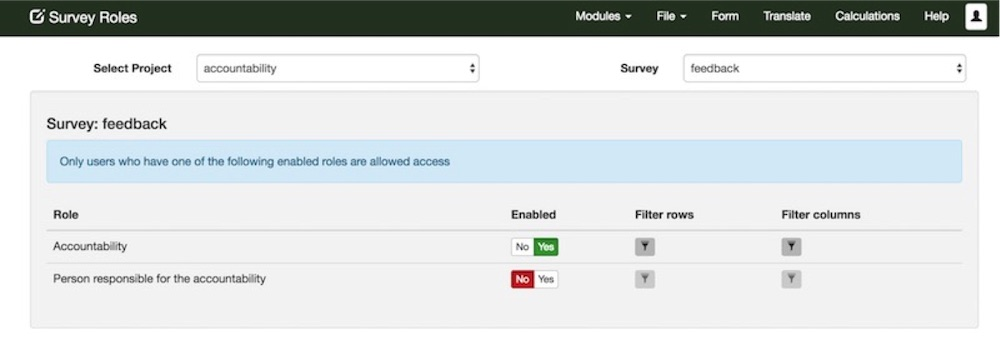
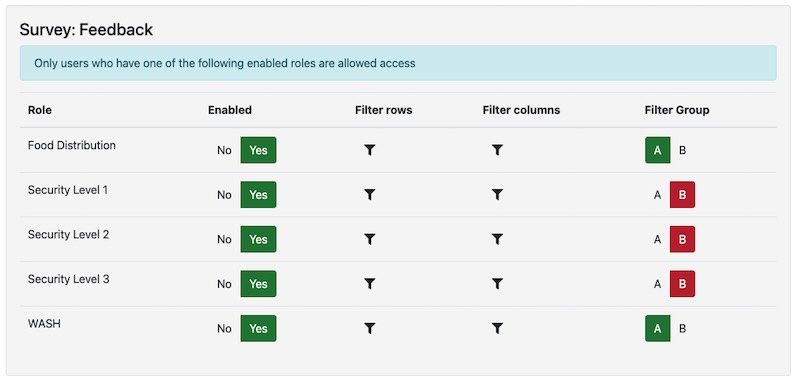
Add role groups

diff --git a/admin-rbac.rst b/admin-rbac.rst
@@ -1,7 +1,7 @@
 .. _rbac:
 
-Role Based Access Control
-=========================
+Role Based Access Control (RBAC)
+================================
 
 .. contents::
  :local:  
@@ -130,38 +130,6 @@ Example::
 
 Only rows with a value of region_a for the region question will now be shown.
 
-Permissive and Restrictive row filters
-======================================
-
-The default setting for a row filter is "permissive", however from version 24.06 you will be able to specify that the row
-filter type is "restrictive".  The meaning of these are:
-
-For permissive row filters, if you have two roles with row filters::
-
-    role 1: ${project} = 'a'  (permissive)
-    role 2: ${project} = 'b'  (permissive)
-
- Then:
-*  if you only have role 1 you can only see data for project "a".
-*  if you only have role 2 you can only see data for project "b"
-*  but if you have both roles you can see data for project "a" and project "b"
-
-In this way a user having more roles can see more data.
-
-However sometimes there are overriding restrictions that you want to apply.  For example if you want to restrict access to sensitive data
-in all projects. Then you can set the row filter type to "restrictive". Expanding on the above example::
-
-        role 1: ${project} = 'a'  (permissive)
-        role 2: ${project} = 'b'  (permissive)
-        role 3: ${sensitive} = 'no' (restrictive)
-
-*  if you have role 1 and role 3 you can only see non sensitive data for project "a".
-*  if you only have role 2 and role 3 you can only see non sensitive data for project "b"
-*  if you have roles 1, 2 and 3 you can see non sensitive data for project "a" and project "b"
-
-So adding role 3 to users always further restricts the records shown it does not expand the records shown to all non sensitive data in abll projects
-which it would do if it was permissive.
-
 Filtering Columns
 +++++++++++++++++
 
@@ -173,6 +141,40 @@ Simply select the columns / questions that people with the role can access.
    :alt:     Filtering Columns
    
    Filtering Columns
+
+Filter Groups
++++++++++++++
+
+A user can have multiple roles, each of which has a filter.  There are a number of ways you may want to combine these filters. For example
+a survey may have the roles:
+
+*  WASH Project
+*  Food Distribution Project
+*  Shelter Project
+*  Security Level 1
+*  Security Level 2
+*  Security Level 3
+
+A user may be given the roles:
+
+*  WASH Project
+*  Food Distribution Project
+*  Security Level 1
+*  Security Level 2
+
+The expectation would be that this user can see all the records at security levels 1 or 2 for the WASH and Food Distribution projects. They should
+not be able to see anything on the Shelter project at any security level nor anything at Security Level 3 in any project.  This logic can be
+implemented using filter groups.
+
+There are two groups available:
+
+#.  Group A
+#.  Group B
+
+We can start by putting the project roles into group A. Each additional role we add in here increases the number of records that can be
+accessed so the user will be able to see data from all the projects for which they have been given the role.  The security roles
+will need to go into a different group, group B,  so that they restrict the records allowed from group A to the ones that match the
+granted security roles.
 
 Applying filters to whole bundle (Online Editor)
 -------------------------------------------------
